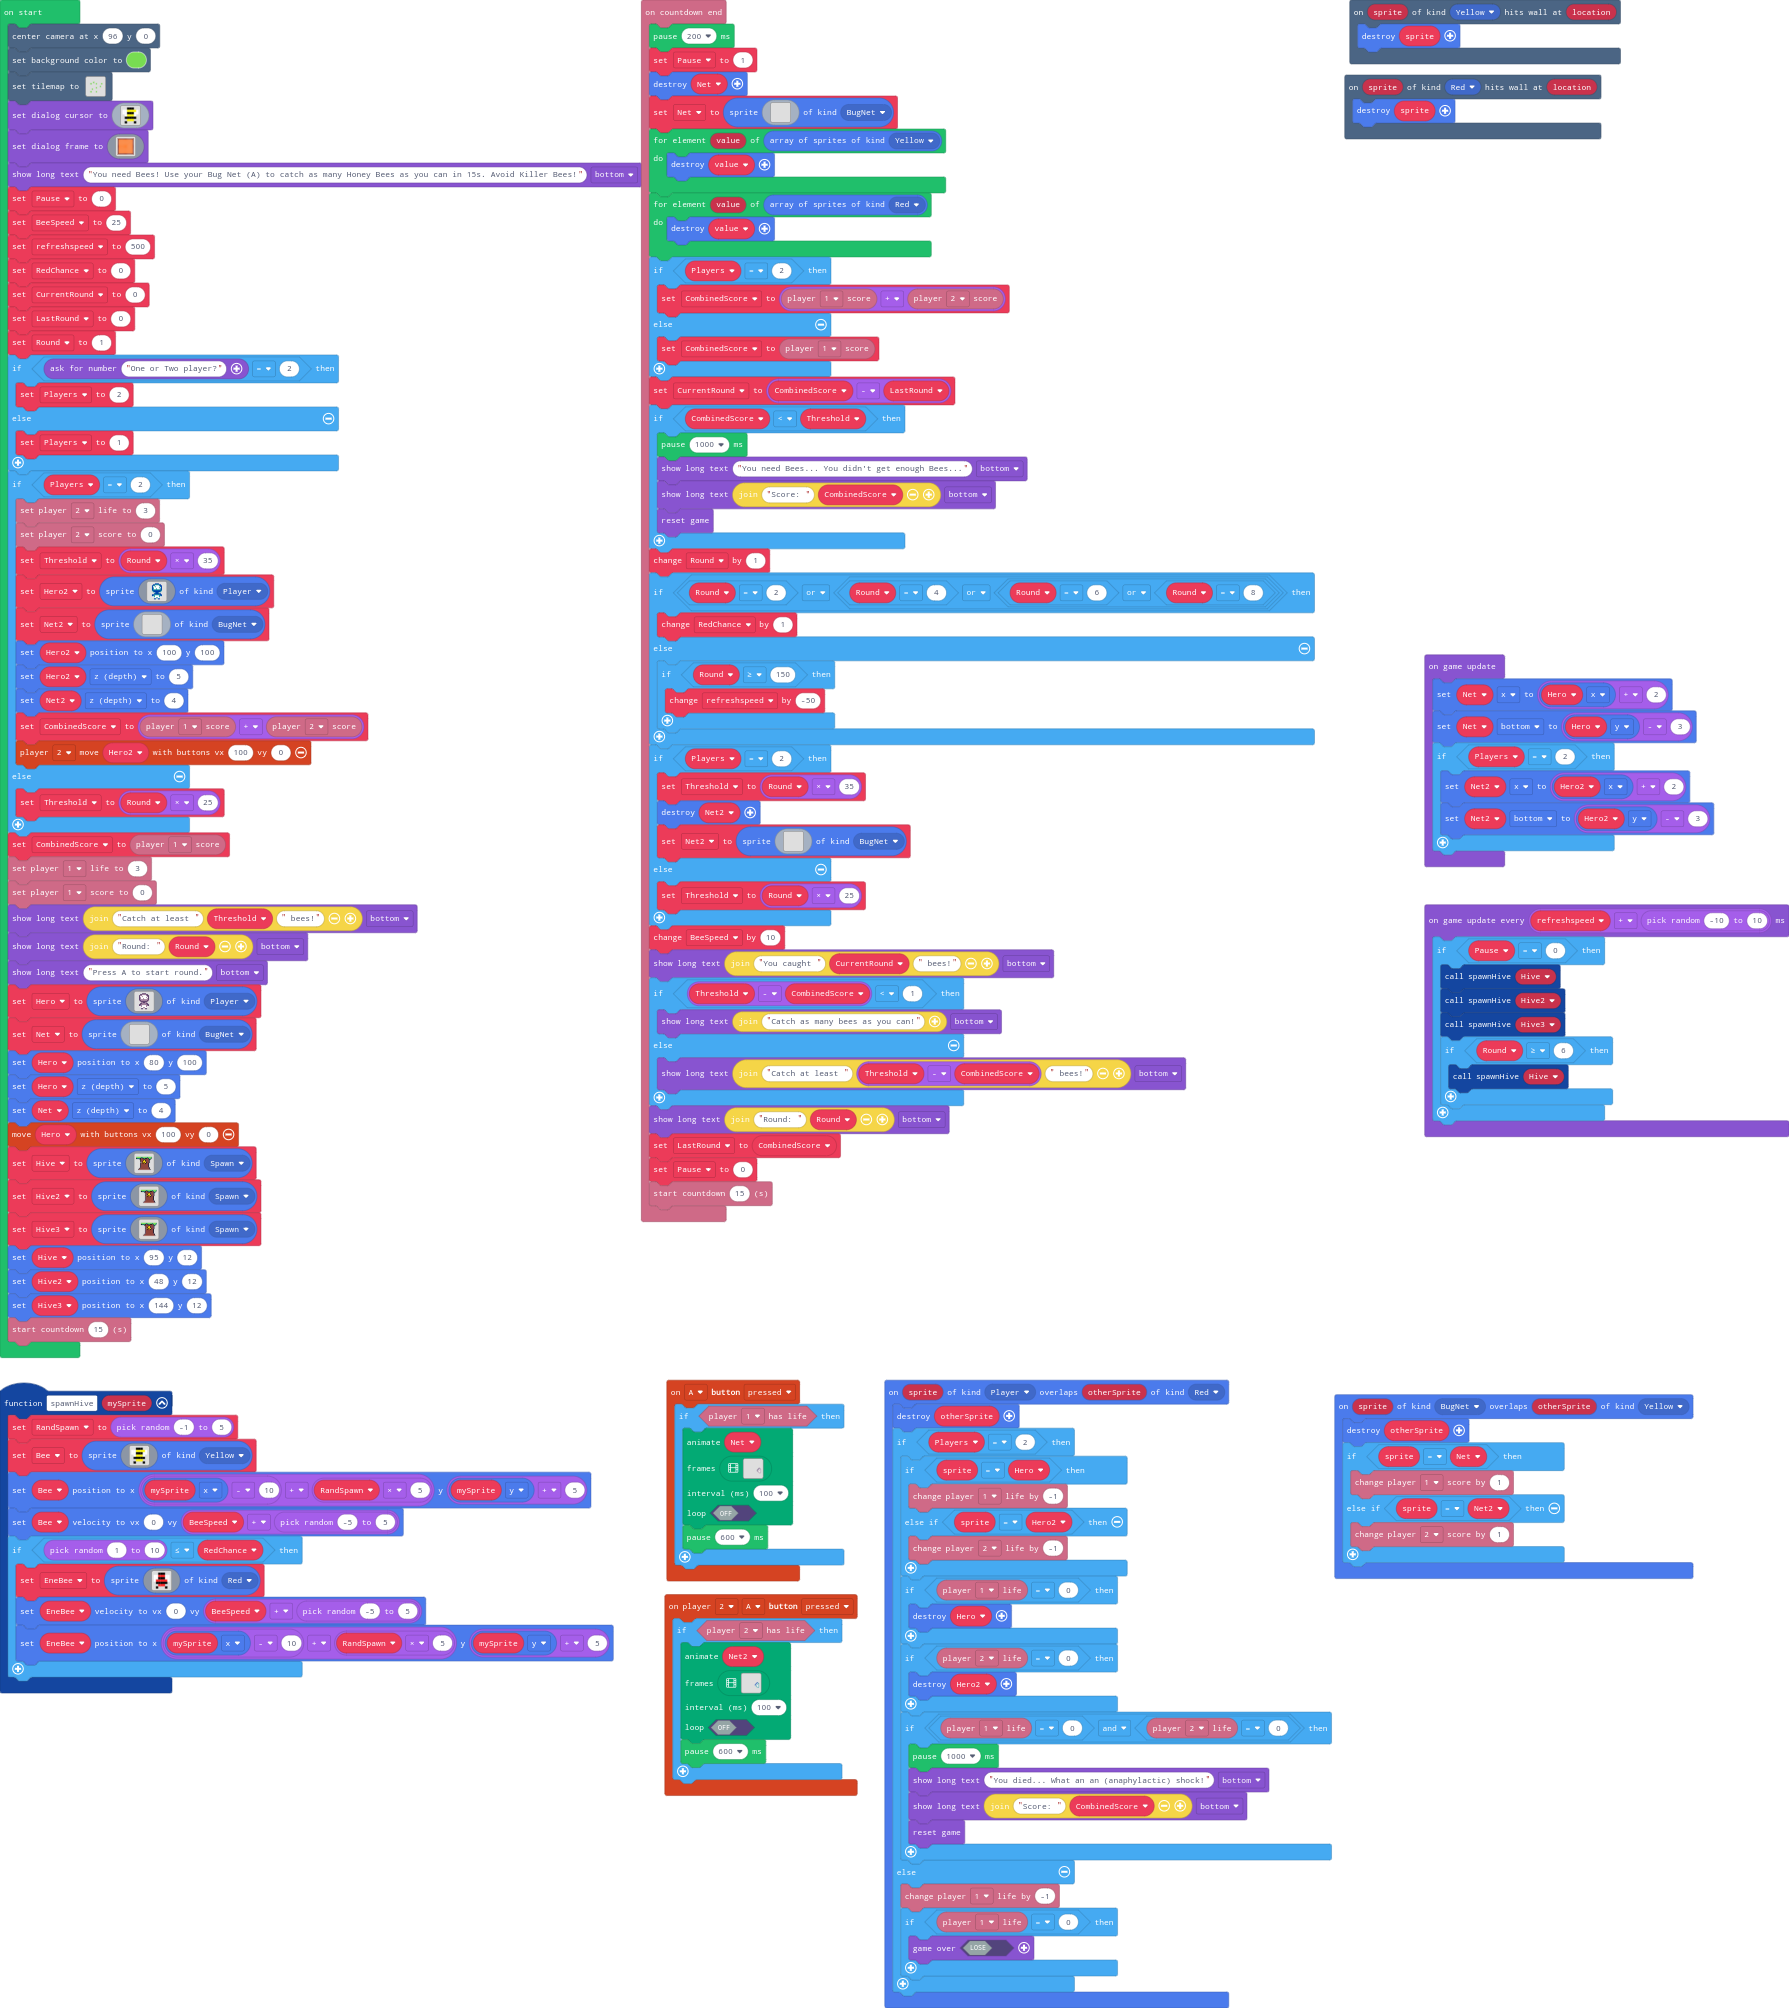
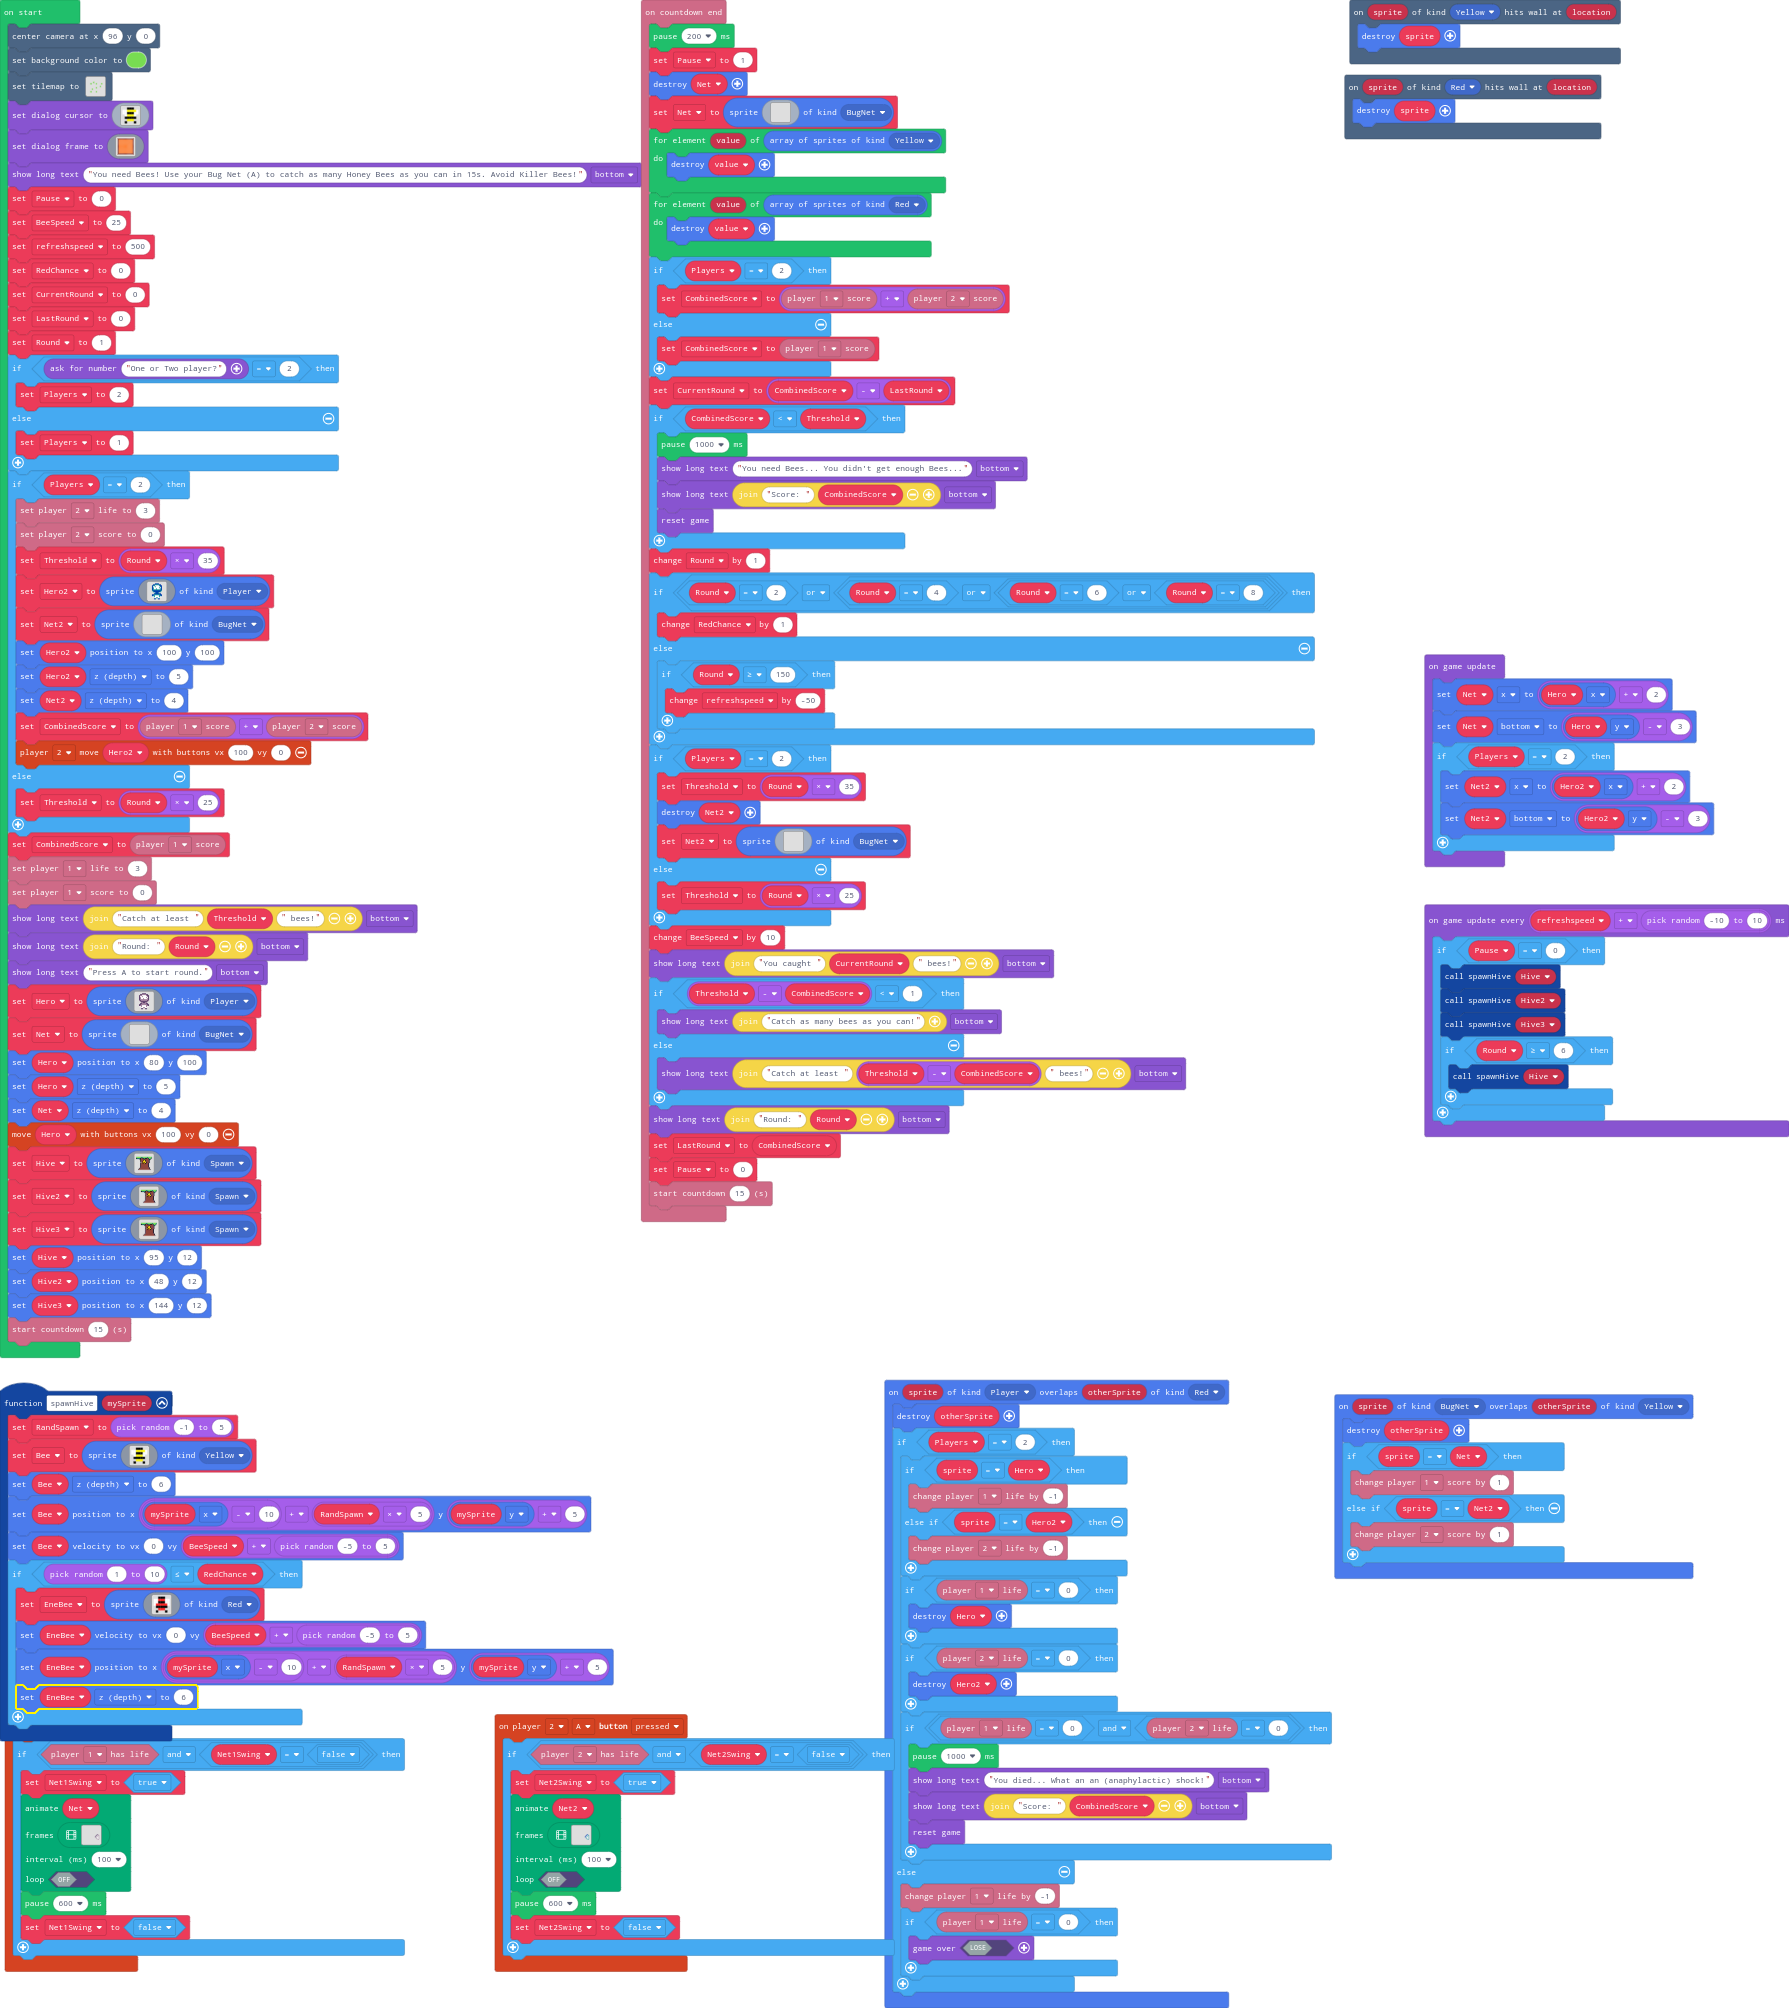
Update main.blocks, main.ts

Changed region(s): [[0.0, 0.6793, 0.5226, 0.988]]

diff --git a/main.ts b/main.ts
@@ -16,6 +16,7 @@ function spawnHive (mySprite: Sprite) {
         . . 5 5 5 . . 
         . f . . . f . 
         `, SpriteKind.Yellow)
+    Bee.z = 6
     Bee.setPosition(mySprite.x - 10 + RandSpawn * 5, mySprite.y + 5)
     Bee.setVelocity(0, BeeSpeed + randint(-5, 5))
     if (randint(1, 10) <= RedChance) {
@@ -30,10 +31,12 @@ function spawnHive (mySprite: Sprite) {
             `, SpriteKind.Red)
         EneBee.setVelocity(0, BeeSpeed + randint(-5, 5))
         EneBee.setPosition(mySprite.x - 10 + RandSpawn * 5, mySprite.y + 5)
+        EneBee.z = 6
     }
 }
 controller.A.onEvent(ControllerButtonEvent.Pressed, function () {
-    if (info.player1.hasLife()) {
+    if (info.player1.hasLife() && Net1Swing == false) {
+        Net1Swing = true
         animation.runImageAnimation(
         Net,
         [img`
@@ -155,10 +158,12 @@ controller.A.onEvent(ControllerButtonEvent.Pressed, function () {
         false
         )
         pause(600)
+        Net1Swing = false
     }
 })
 controller.player2.onButtonEvent(ControllerButton.A, ControllerButtonEvent.Pressed, function () {
-    if (info.player2.hasLife()) {
+    if (info.player2.hasLife() && Net2Swing == false) {
+        Net2Swing = true
         animation.runImageAnimation(
         Net2,
         [img`
@@ -280,6 +285,7 @@ controller.player2.onButtonEvent(ControllerButton.A, ControllerButtonEvent.Press
         false
         )
         pause(600)
+        Net2Swing = false
     }
 })
 scene.onHitWall(SpriteKind.Red, function (sprite, location) {
@@ -411,6 +417,8 @@ sprites.onOverlap(SpriteKind.Player, SpriteKind.Red, function (sprite, otherSpri
 scene.onHitWall(SpriteKind.Yellow, function (sprite, location) {
     sprite.destroy()
 })
+let Net2Swing = false
+let Net1Swing = false
 let EneBee: Sprite = null
 let Bee: Sprite = null
 let RandSpawn = 0
